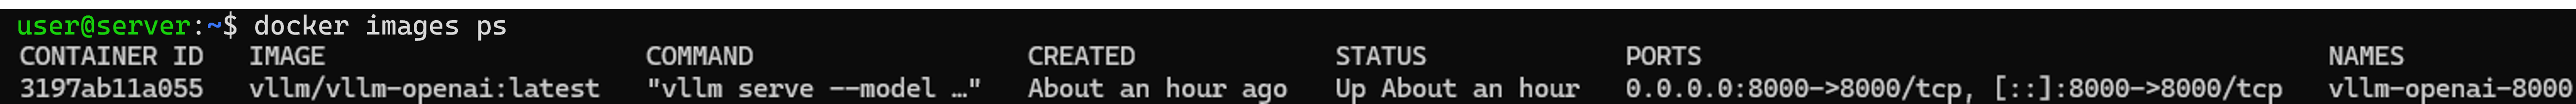
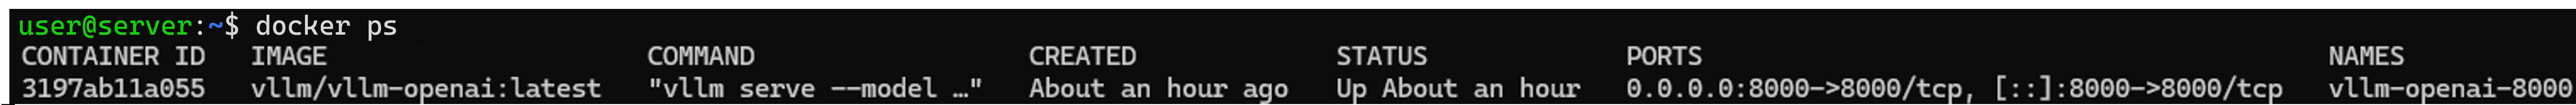
all

diff --git a/_posts/Programming/Dev_Environment/2026-04-16-Docker_cmd.md b/_posts/Programming/Dev_Environment/2026-04-16-Docker_cmd.md
@@ -19,28 +19,27 @@ author: sunho
 
 ### **`docker pull {다운받을 이미지 이름}`**
 
-`docker pull`은 다른 사람이 이미 만들어둔 이미지를 다운로드한다.
+`docker pull`은 다른 사람이 이미 만들어둔 이미지를 다운로드하는 명령어다.
 
 다른 사람이 만들어둔 이미지는 주로 [Docker Hub](https://hub.docker.com/)에서 다운받을 수 있다.
 
 ![fig1](Programming/Dev_Environment/Docker_cmd-1.png){: style="display:block; margin:0 auto; width:100%;"}
 
-### `docker build -t {빌드할 이미지 이름} {Dockerfile 경로}`
+### **`docker build -t {빌드할 이미지 이름} {Dockerfile 경로}`**
 
-`docker build`는 내가 작성한 도커파일을 바탕으로 새로운 이미지를 빌드한다.
+`docker build`는 내가 작성한 도커파일을 바탕으로 새로운 이미지를 빌드하는 명령어다.
 
-### `docker images`
+### **`docker images`**
 
-`docker images`는 현재 내 컴퓨터에 다운로드되어 있거나 직접 만든 도커 이미지들의 전체 목록과 용량을 보여준다.
+`docker images`는 현재 내 컴퓨터에 다운로드되어 있거나 직접 만든 도커 이미지들의 전체 목록과 용량을 보여주는 명령어다.
 
 ![fig2](Programming/Dev_Environment/Docker_cmd-2.png){: style="display:block; margin:0 auto; width:100%;"}
 
-### `docker rmi {제거할 이미지 ID 또는 이름}`
+### **`docker rmi {제거할 이미지 ID 또는 이름}`**
 
-`docker rmi`는 더 이상 사용하지 않는 도커 이미지를 삭제한다.
+`docker rmi`는 더 이상 사용하지 않는 도커 이미지를 삭제하는 명령어다.
 
 만약 해당 이미지를 사용해서 만든 컨테이너가 하나라도 남아있다면, 먼저 `docker rm` 명령어로 해당 컨테이너를 삭제해야 이미지를 지울 수 있다.
-
 
 ## 컨테이너 관련 명령어
 
@@ -48,12 +47,28 @@ author: sunho
 | :---: | :---: |
 | `docker run` | 이미지를 바탕으로 컨테이너 생성 및 실행 |
 | `docker ps` | 현재 실행 중인 컨테이너들의 목록, 상태, 생성 시간 등 출력 |
+| `docker exec` | 현재 실행 중인 컨테이너에 접속 |
 | `docker stop` | 실행 중인 컨테이너 중지 |
 | `docker rm` | 중지된 컨테이너를 내 컴퓨터에서 완전히 삭제 |
 
-### `docker run {옵션} {사용할 이미지 이름}`
+### **`docker run {옵션} {사용할 이미지 이름}`**
 
-`docker run`은 컨테이너를 생성한 다음 실행하는 명령어이다.
+`docker run`은 컨테이너를 생성한 다음 실행하는 명령어다.
+
+아래는 `docker run` 명령어와 함께 사용할 수 있는 몇 가지 옵션이다.
+
+| 옵션 이름 | 설명 | 예시 |
+| :---: | :---: | :---: |
+| `-d` | 백그라운드에서 실행 | `-d` |
+| `-p` | 호스트와 컨테이너의 포트 연결 | `-p 8000:8000` |
+| `-v` | 호스트와 컨테이너 내부의 폴더를 동기화 (마운트) | `-v ~/.cache/models:/root/.cache/models` |
+| `-e` | 컨테이너에 설정값 전달 | `-e toekn="$my_token"` |
+| `--name` | 생성될 컨테이너에 이름을 붙임 | `--name my_container` |
+| `--gpus` | 컨테이너가 사용할 GPU 할당 | `--gpus '"device=0"'` , `--gpus all` |
+| `--memory` | 컨테이너가 사용할 수 있는 최대 RAM 용량 제한 | `--memory=100m` , `--memory=80g` |
+| `--shm-size` | 공유 메모리 용량 설정 | `--shm-size=8g` |
+
+#### **`-d`**
 
 컨테이너를 실행할 때 `-d` 옵션 없이 실행하면, 컨테이너는 터미널 화면에서 돌아간다. 다시 말해 컨테이너 안에서 출력되는 로그가 실시간으로 터미널에 출력되는데, 이 때문에 프로그램이 종료될 때까지 터미널은 입력 불가 상태가 된다.
 <br>
@@ -61,36 +76,54 @@ author: sunho
 
 반대로 `-d` 옵션을 사용해서 실행하면, 컨테이너는 백그라운드에서 실행되고 터미널은 사용자가 명령어를 칠 수 있는 터미널 프롬프트 상태로 돌아온다.
 <br>
-컨테이너가 백그라운드에서 실행되기 때문에, 사용자는 터미널에서 다른 작업을 이어서 할 수 있다.
+컨테이너가 백그라운드에서 실행되기 때문에 사용자는 터미널에서 다른 작업을 이어서 할 수 있으며, 터미널을 종료해도 컨테이너는 계속 유지된다.
 
-| 옵션 이름 | 설명 | 예시 |
-| :---: | :---: | :---: |
-| `-d` | 백그라운드에서 조용히 실행 | - |
-| `-p` | 내 컴퓨터의 포트와 컨테이너의 포트 연결 | - |
-| `--name {컨테이너 이름}` | 생성될 컨테이너에 이름을 붙임 | `--name my_container` |
-| `--gpus all` | 내 컴퓨터에 있는 모든 GPU를 컨테이너가 사용할 수 있도록 할당 | `--gpus all` , `--gpus all` |
-| `--memory={RAM 용량}` | 컨테이너가 사용할 수 있는 최대 RAM 용량 제한 | `--memory=80g ` , `--memory=80g ` |
-| `--shm-size={}` | 컨테이너에 할당되는 공유 메모리의 크기를 설정 |
+#### **`-v {내 컴퓨터 경로}:{컨테이너 내부 경로}`**
 
-아래 예시에서 이미지 이름인 `vllm/vllm-openai:latest` 이후에 나오는 명령어들은 도커 옵션이 아니라, 해당 이미지 안의 VLLM 프로그램에게 전달되는 세부 지시사항이다.
+컨테이너는 삭제하면 내부 데이터가 날아간다. 이때 `-v` 옵션을 사용하면, 컨테이너를 지우더라도 동기화된 내 컴퓨터의 경로에는 데이터가 남아있게 된다.
 
-```bash
-docker run \
-    -d \
-    -p 1234:1234 \
-    --name my_container \
-    --gpus all \
-    --memory=80g \
-    vllm/vllm-openai:latest \
-    --gpu-memory-utilization 0.9 
-```
+예를 들어 AI 모델은 매우 무겁기 때문에 컨테이너를 새로 만들 때마다 가중치 파일을 다시 다운로드하는 건 시간 낭비다. 이때 `-v`를 통해 내 컴퓨터에 이미 받아둔 모델 폴더를 공유하면, 다운받지 않고 즉시 실행할 수 있다.
 
-### `docker ps {옵션}`
+#### **`-e {환경 변수}`**
 
-`docker ps`는 현재 실행 중인 컨테이너들의 목록, 상태, 생성 시간 등 출력
+도커 컨테이너가 생성될 때, 내부에서 사용할 환경변수를 주입하는 옵션이다.
+
+예를 들어 컨테이너 안에서 실행되는 프로그램이 허깅페이스 인증 토큰이 뭔지 물어볼 때, 도커가 환경변수에 설정된 값을 사용하라고 알려주게 된다.
+
+> 환경변수는 프로세스가 실행될 때 참조하는 `key=value` 형태의 참조값을 의미한다.
+>
+> 환경변수를 사용하는 이유는 주로 보안때문이다.
+> <br> 중요한 정보를 소스 코드에 직접 적으면 유출 위험이 있는데, 환경변수를 사용하면 코드 밖에 저장해 두고 프로그램이 실행될 때마다 값을 읽어올 수 있다.
+
+### **`docker ps {옵션}`**
+
+`docker ps`는 현재 실행 중인 컨테이너들의 목록, 상태, 생성 시간 등 출력하는 명령어다.
 
 ![fig3](Programming/Dev_Environment/Docker_cmd-3.png){: style="display:block; margin:0 auto; width:100%;"}
 
-### `docker stop {컨테이너 ID 또는 이름}`
+아래는 `docker run` 명령어와 함께 사용할 수 있는 몇 가지 옵션이다.
 
-### `docker rm {컨테이너 ID 또는 이름}`
+| 옵션 이름 | 설명 |
+| :---: | :---: |
+| `-a` | 중지된 컨테이너까지 포함해서 모든 컨테이너 목록 출력 |
+| `-q` | 컨테이너 ID만 출력 |
+| `-s` | 컨테이너가 차지하고 있는 실제 용량을 함께 출력 |
+| `--no-trunc` | 정보를 생략하지 않고 전체 길이를 다 출력 |
+
+아래 사진을 보면 `-a` 옵션을 사용해서 중지된 컨테이너 (STATUS가 Exited)까지 출력되는 것을 확인할 수 있다.
+
+![fig4](Programming/Dev_Environment/Docker_cmd-4.png){: style="display:block; margin:0 auto; width:100%;"}
+
+### **`docker exec {옵션} {사용할 이미지 이름}`**
+
+
+
+### **`docker stop {컨테이너 ID 또는 이름}`**
+
+`docker stop`은 실행 중인 컨테이너 중지하는 명령어다.
+
+### **`docker rm {컨테이너 ID 또는 이름}`**
+
+`docker rm`은 중지된 컨테이너를 내 컴퓨터에서 완전히 삭제하는 명령어다.
+
+컨테이너가 중지되어야지 삭제할 수 있기 때문에, 먼저 `docker stop`을 이용해 삭제하려는 컨테이너를 중지해야 한다.